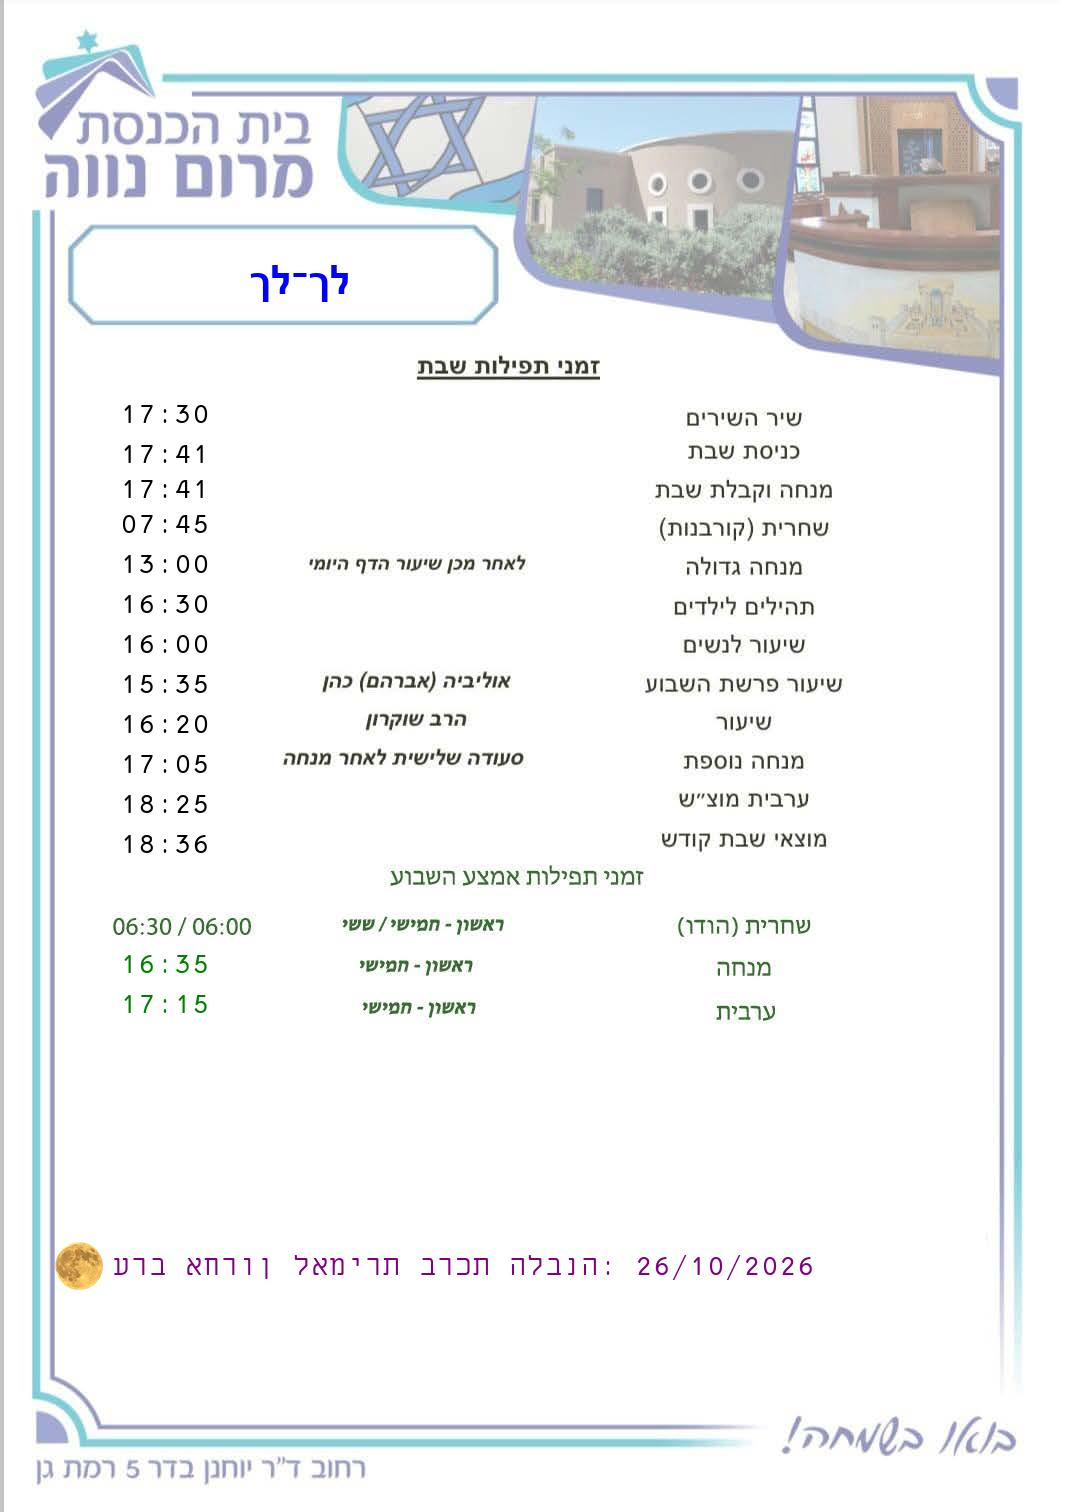
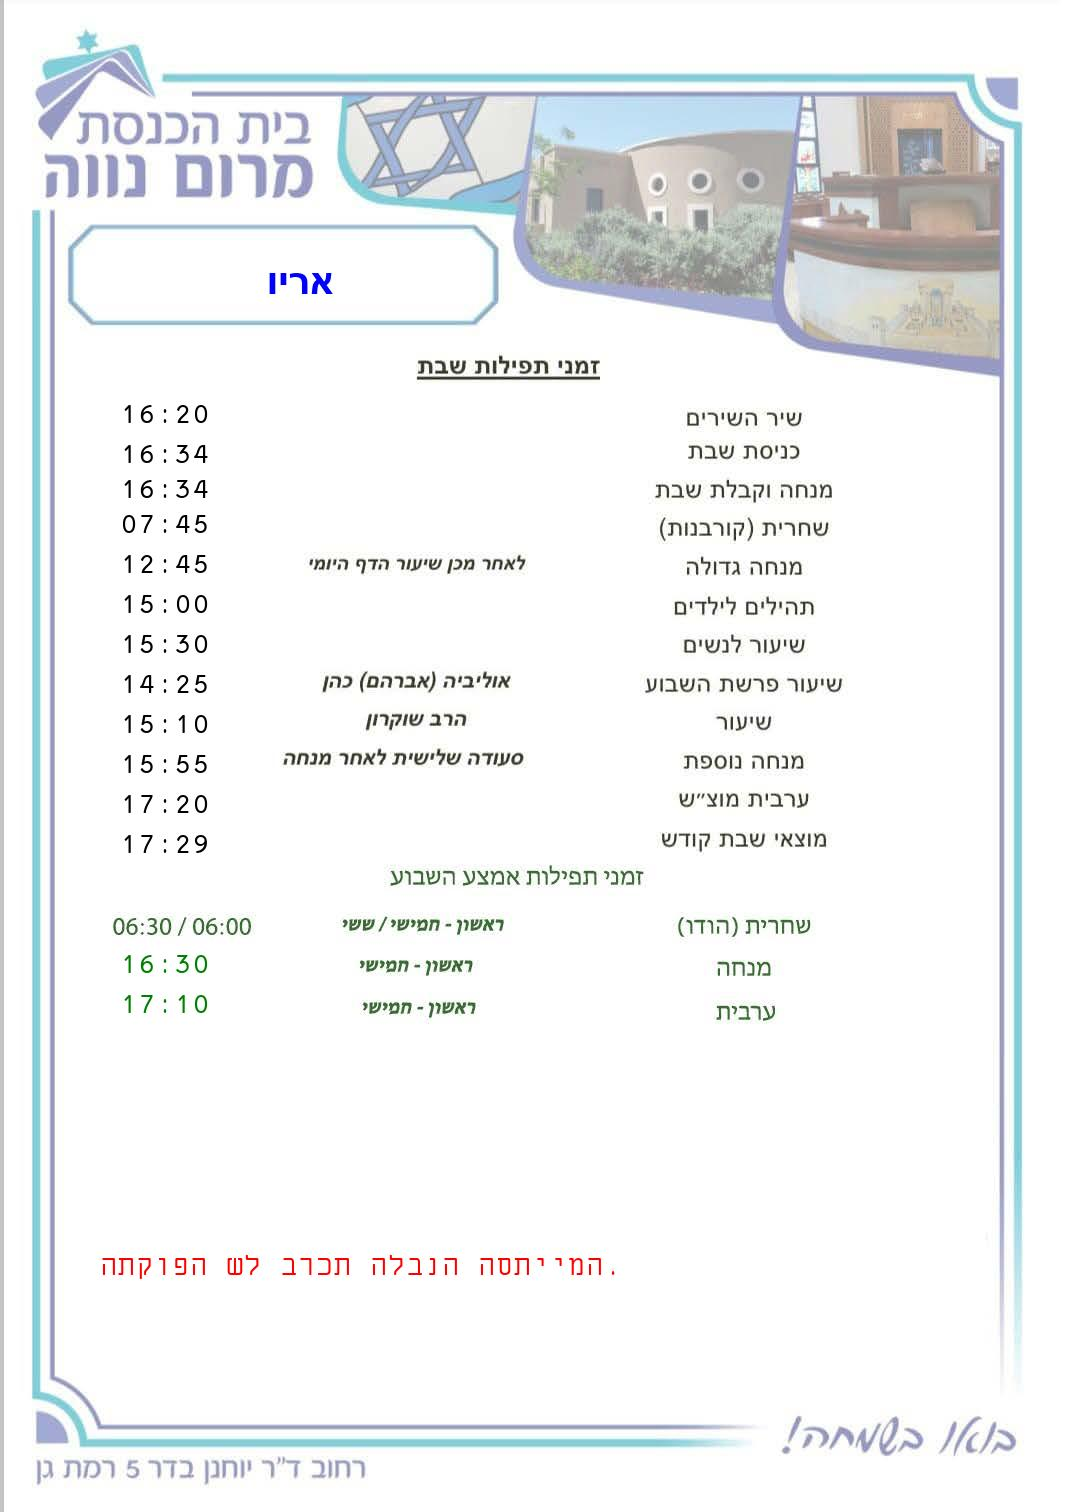
חורף

diff --git a/horaires_shabbat.py b/horaires_shabbat.py
@@ -798,7 +798,7 @@ class ShabbatScheduleGenerator:
             "tehilim": tehilim,
             "tehilim_ete": tehilim_ete,
             "tehilim_hiver": tehilim_hiver,
-            "shiur_nashim": 16 * 60 + 00,
+            "shiur_nashim": self.round_to_nearest_five(15 * 60 + (30 if self.season == "winter" else 60)),
             "arvit_hol": None,
             "arvit_motsach": None,
             "mincha_2": None,

diff --git a/horaires_shabbat_for_local.py b/horaires_shabbat_for_local.py
@@ -765,7 +765,7 @@ class ShabbatScheduleGenerator:
             "tehilim": tehilim,
             "tehilim_ete": tehilim_ete,
             "tehilim_hiver": tehilim_hiver,
-            "shiur_nashim": 16 * 60 +00,
+            "shiur_nashim": self.round_to_nearest_five(15 * 60 + (30 if self.season == "winter" else 60)),
             "arvit_hol": None,
             "arvit_motsach": None,
             "mincha_2": None,
